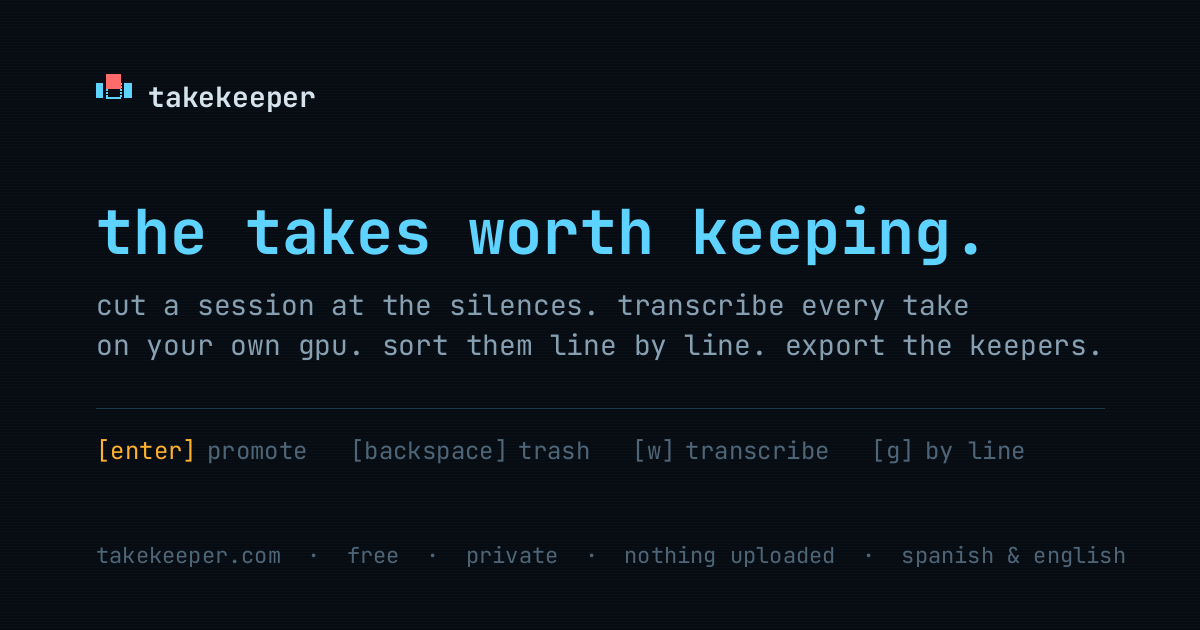
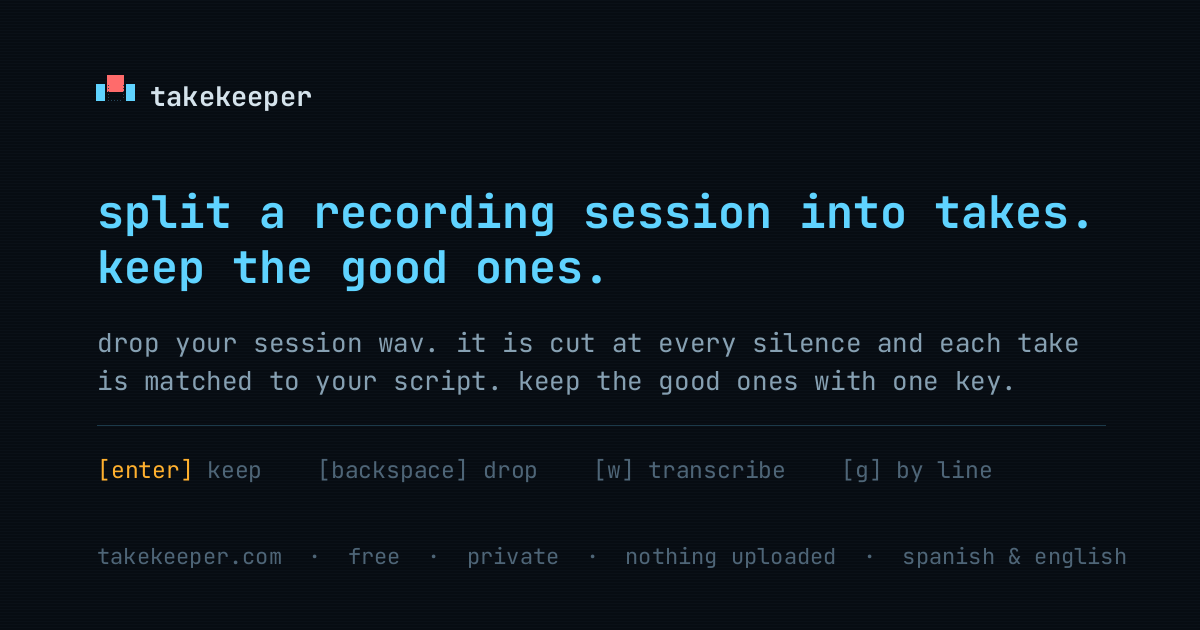
OG: the hero copy, verbatim, in the image and the tags

diff --git a/landing/plugin.ts b/landing/plugin.ts
@@ -22,9 +22,9 @@ const EN: Meta = {
   title: 'Takekeeper: sort voice-over takes in your browser',
   description:
     'Drop an hour-long WAV of voice-over takes. Takekeeper cuts it at the silences, transcribes every take on your own GPU, matches each one to your script, and lets you keep the good ones line by line with the keyboard. Multi-pass lanes, junk detection, split, merge, trim, export straight into FL Studio or any DAW. Free, private, nothing uploaded.',
-  ogTitle: 'Takekeeper: the takes worth keeping',
+  ogTitle: 'Takekeeper: split a recording session into takes. keep the good ones.',
   ogDescription:
-    'Take triage for voice actors. Split a session at the silences, transcribe on your GPU, sort takes line by line into passes with the keyboard, export the keepers. Runs in your browser, nothing uploaded.',
+    'Drop the long WAV from a voice-over session. It is cut at every silence, each take is matched to your script, and you keep the good ones line by line with one key. Runs in your browser on your own GPU. Nothing uploaded.',
   appDescription:
     'Take triage for voice actors: split a long voice-over recording at the silences, transcribe every take with Whisper on your own GPU, match takes to script lines, sort them line by line into passes with the keyboard, fix cuts, and export the keepers as numbered WAV files. Runs entirely in the browser; nothing is uploaded.',
   audience: 'Voice actors, audiobook narrators, dubbing and ADR performers',

diff --git a/index.html b/index.html
@@ -15,8 +15,8 @@
     <link rel="alternate" hreflang="x-default" href="https://takekeeper.com/" />
     <meta property="og:type" content="website" />
     <meta property="og:site_name" content="Takekeeper" />
-    <meta property="og:title" content="Takekeeper: the takes worth keeping" />
-    <meta property="og:description" content="Take triage for voice actors. Split a session at the silences, transcribe on your GPU, sort takes line by line into passes with the keyboard, export the keepers. Runs in your browser, nothing uploaded." />
+    <meta property="og:title" content="Takekeeper: split a recording session into takes. keep the good ones." />
+    <meta property="og:description" content="Drop the long WAV from a voice-over session. It is cut at every silence, each take is matched to your script, and you keep the good ones line by line with one key. Runs in your browser on your own GPU. Nothing uploaded." />
     <meta property="og:url" content="https://takekeeper.com/" />
     <meta property="og:locale" content="en_US" />
     <meta property="og:locale:alternate" content="es_ES" />

diff --git a/scripts/og.py b/scripts/og.py
@@ -1,0 +1,69 @@
+"""Open Graph images, one per language: python scripts/og.py [--fonts .rig/fonts]
+Same copy as the hero. Needs JetBrains Mono 400/700 as jbm-400.ttf / jbm-700.ttf in the fonts dir."""
+import sys
+from PIL import Image, ImageDraw, ImageFont
+
+fonts = sys.argv[sys.argv.index("--fonts") + 1] if "--fonts" in sys.argv else ".rig/fonts"
+W, H = 1200, 630
+BG, SCAN = (7, 12, 18), (10, 16, 23)
+CYAN, CORAL, TEXT, SUB, RULE, AMBER, DIM = (95, 211, 255), (255, 107, 107), (213, 227, 236), (134, 160, 178), (28, 58, 74), (255, 176, 46), (78, 101, 119)
+B = lambda s: ImageFont.truetype(f"{fonts}/jbm-700.ttf", s)
+R = lambda s: ImageFont.truetype(f"{fonts}/jbm-400.ttf", s)
+
+COPY = {
+    "en": {
+        "title": ["split a recording session into takes.", "keep the good ones."],
+        "sub": ["drop your session wav. it is cut at every silence and each take", "is matched to your script. keep the good ones with one key."],
+        "keys": [("[enter]", "keep", AMBER), ("[backspace]", "drop", DIM), ("[w]", "transcribe", DIM), ("[g]", "by line", DIM)],
+        "foot": "takekeeper.com  ·  free  ·  private  ·  nothing uploaded  ·  spanish & english",
+        "file": "public/og.png",
+    },
+    "es": {
+        "title": ["divide una sesión de grabación en tomas.", "quédate con las buenas."],
+        "sub": ["suelta el wav de tu sesión. se corta en cada silencio y cada toma", "se empareja con tu guion. elige las buenas con una sola tecla."],
+        "keys": [("[enter]", "subir", AMBER), ("[backspace]", "tirar", DIM), ("[w]", "transcribir", DIM), ("[g]", "por línea", DIM)],
+        "foot": "takekeeper.com  ·  gratis  ·  privado  ·  no se sube nada  ·  español e inglés",
+        "file": "public/og-es.png",
+    },
+}
+
+
+def mark(d, x, y, s=0.8):
+    # the logo: two cyan half-takes on the baseline, a coral take lifted out over a dashed ghost slot
+    k = lambda v: round(v * s)
+    d.rectangle([x, y + k(28), x + k(10), y + k(48)], fill=CYAN)
+    d.rectangle([x + k(38), y + k(28), x + k(48), y + k(48)], fill=CYAN)
+    d.rectangle([x + k(14), y + k(16), x + k(34), y + k(36)], fill=CORAL)
+    gx0, gy0, gx1, gy1 = x + k(14.5), y + k(28.5), x + k(33.5), y + k(47.5)
+    dash = (40, 70, 90)
+    for i in range(0, k(19), 3):
+        d.point((gx0 + i, gy1), fill=dash)
+        d.point((gx1, gy0 + i), fill=dash)
+        d.point((gx0, gy0 + i), fill=dash)
+
+
+for lang, c in COPY.items():
+    im = Image.new("RGB", (W, H), BG)
+    d = ImageDraw.Draw(im)
+    for y in range(0, H, 3):
+        d.line([(0, y), (W, y)], fill=SCAN)
+    width = lambda t, f: d.textbbox((0, 0), t, font=f, anchor="ls")[2]
+    mark(d, 96, 62)
+    d.text((150, 106), "takekeeper", font=B(27), fill=TEXT, anchor="ls")
+    size = 50
+    while max(width(t, B(size)) for t in c["title"]) > 1010:
+        size -= 1
+    for i, t in enumerate(c["title"]):
+        d.text((97, 228 + i * (size + 10)), t, font=B(size), fill=CYAN, anchor="ls")
+    for i, t in enumerate(c["sub"]):
+        d.text((97, 352 + i * 38), t, font=R(26), fill=SUB, anchor="ls")
+    d.line([(97, 425), (1105, 425)], fill=RULE, width=1)
+    x, f = 97, R(23)
+    for key, label, col in c["keys"]:
+        d.text((x, 478), key, font=f, fill=col, anchor="ls")
+        x += width(key + " ", f)
+        d.text((x, 478), label, font=f, fill=DIM, anchor="ls")
+        x += width(label, f) + width("    ", f)
+    d.text((97, 564), c["foot"], font=R(22), fill=DIM, anchor="ls")
+    im.save(c["file"], optimize=True)
+    print(c["file"], "title", size)

diff --git a/docs/dev-notes.md b/docs/dev-notes.md
@@ -46,7 +46,7 @@ Practical notes for working on Takekeeper. The product itself is described in `t
 - UI copy: `src/i18n.tsx`. `t(key, vars)` where the key is the English string itself and `es` is one dictionary keyed by those strings, so `tsc` rejects a call whose key has no Spanish. `{name}` interpolates; `[[x]]` renders `<kbd>` and `**x**` `<b>` through `rich()` / `<T k=… />`. Plural forms are separate keys. Lane names: stored in English (`Unsorted`, `Pass 1`, `Final`, plus `Junk`/`Trash`); `laneLabel()` translates the defaults for display and leaves custom names as typed. Every user-visible string in `store.ts`, `wav.ts`, `export.ts`, `transcriber.ts` and the UI goes through `t()`.
 - Language: setting `lang: auto | en | es`. `auto` follows the page (`<html lang>`, fixed at load as `PAGE_LANG`). `redirectFor()` decides before mounting: a chosen language always wins (`/` ↔ `/es/`); on auto, a Spanish browser (`navigator.languages[0]`) opening `/` goes to `/es/`, and the reverse never redirects so English crawlers can index `/es/`. The header `[es]`/`[en]` button navigates on the landing page and only re-renders in the editor (amber when `navigator.language` prefers the other one and the setting is auto).
 - Landing: `index.html` is the English source, including a static hero inside `#app` for crawlers without JS (the app clears it before mounting). `landing/es.html` holds the Spanish hero (`<!-- @hero -->`) and `<main>` (`<!-- @landing -->`), `landing/es.json` the Spanish title/description/OG/schema text. `landing/plugin.ts` (Vite plugin) serves `/es/` in dev and writes `dist/es/index.html` at build by swapping those parts and the head metadata; on both pages it regenerates the JSON-LD (SoftwareApplication + FAQPage) from the visible `<details>` FAQ, so `index.html` carries no JSON-LD of its own. Keep the two `<main>`s structurally identical; when adding a FAQ entry or key row, add it in both.
-- Head: `hreflang` en/es/x-default on both pages (same set), canonical per page, `og:locale` + alternate, font stylesheet preloaded. `public/sitemap.xml` lists both URLs with xhtml alternates. `og-es.png` (same design, Spanish copy; generated with PIL from the JetBrains Mono ttfs, see the git history of this note) is set as `og:image`/`twitter:image` on `/es/`. `vercel.json` has `trailingSlash: true` so `/es` redirects to `/es/`, the canonical.
+- Head: `hreflang` en/es/x-default on both pages (same set), canonical per page, `og:locale` + alternate, font stylesheet preloaded. `public/sitemap.xml` lists both URLs with xhtml alternates. `og.png` / `og-es.png` carry the hero copy verbatim; `python scripts/og.py` regenerates both (JetBrains Mono ttfs in `.rig/fonts`) is set as `og:image`/`twitter:image` on `/es/`. `vercel.json` has `trailingSlash: true` so `/es` redirects to `/es/`, the canonical.
 - Testing `/es/` in the in-app browser: navigate to `http://localhost:5173/es/`; the app UI, modals and toasts should read Spanish; `__tk.updateSettings({ lang: 'auto' })` resets a stored choice.
 
 ## Screenshot rig
